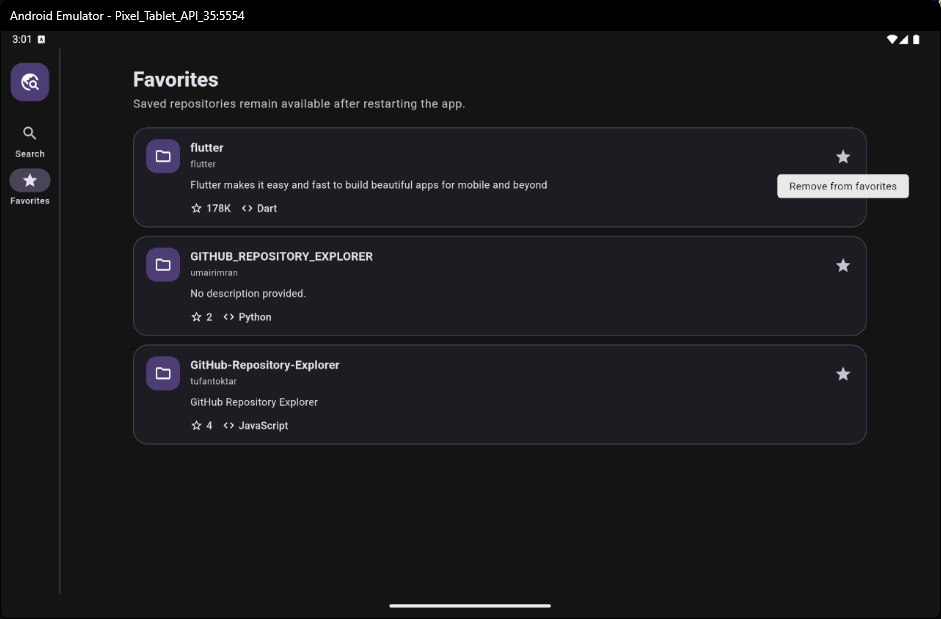
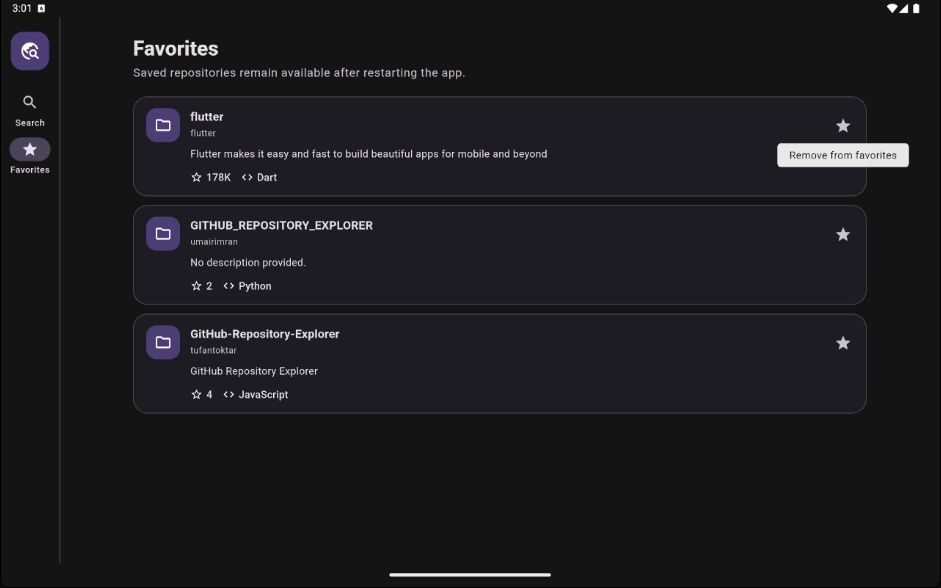
docs: address screenshot review

diff --git a/README.md b/README.md
@@ -29,46 +29,41 @@ The gallery focuses on the primary journey instead of repeating every
 intermediate state: search, repository detail, persistent favorites, and the
 adaptive tablet layout.
 
-<table>
-  <tr>
-    <td colspan="2">
-      <img
-        src="docs/screenshots/search-results-tablet-dark.png"
-        alt="Repository search results in the adaptive dark tablet layout"
-      >
-    </td>
-  </tr>
-  <tr>
-    <td colspan="2" align="center">
-      <strong>Search results</strong> — adaptive tablet navigation and readable
-      content width.
-    </td>
-  </tr>
-  <tr>
-    <td width="38%">
-      <img
-        src="docs/screenshots/repository-detail-phone-dark.png"
-        alt="Repository detail on a phone in dark mode"
-      >
-    </td>
-    <td width="62%">
-      <img
-        src="docs/screenshots/favorites-tablet-dark.png"
-        alt="Persistent favorites in the adaptive dark tablet layout"
-      >
-    </td>
-  </tr>
-  <tr>
-    <td align="center">
-      <strong>Repository detail</strong> — activity, language, favorite, and
-      GitHub link.
-    </td>
-    <td align="center">
-      <strong>Favorites</strong> — persisted repositories remain available
-      offline.
-    </td>
-  </tr>
-</table>
+<p align="center">
+  <img
+    src="docs/screenshots/search-results-tablet-dark.png"
+    alt="Repository search results in the adaptive dark tablet layout"
+    width="900"
+  >
+</p>
+<p align="center">
+  <strong>Search results</strong> — adaptive tablet navigation and readable
+  content width.
+</p>
+
+<p align="center">
+  <img
+    src="docs/screenshots/repository-detail-phone-dark.png"
+    alt="Repository detail on a phone in dark mode"
+    width="360"
+  >
+</p>
+<p align="center">
+  <strong>Repository detail</strong> — activity, language, favorite, and GitHub
+  link.
+</p>
+
+<p align="center">
+  <img
+    src="docs/screenshots/favorites-tablet-dark.png"
+    alt="Persistent favorites in the adaptive dark tablet layout with the remove action tooltip"
+    width="900"
+  >
+</p>
+<p align="center">
+  <strong>Favorites</strong> — persisted repositories remain available offline,
+  while the tooltip explains the removal action.
+</p>
 
 <details>
   <summary>Additional recovery state</summary>
